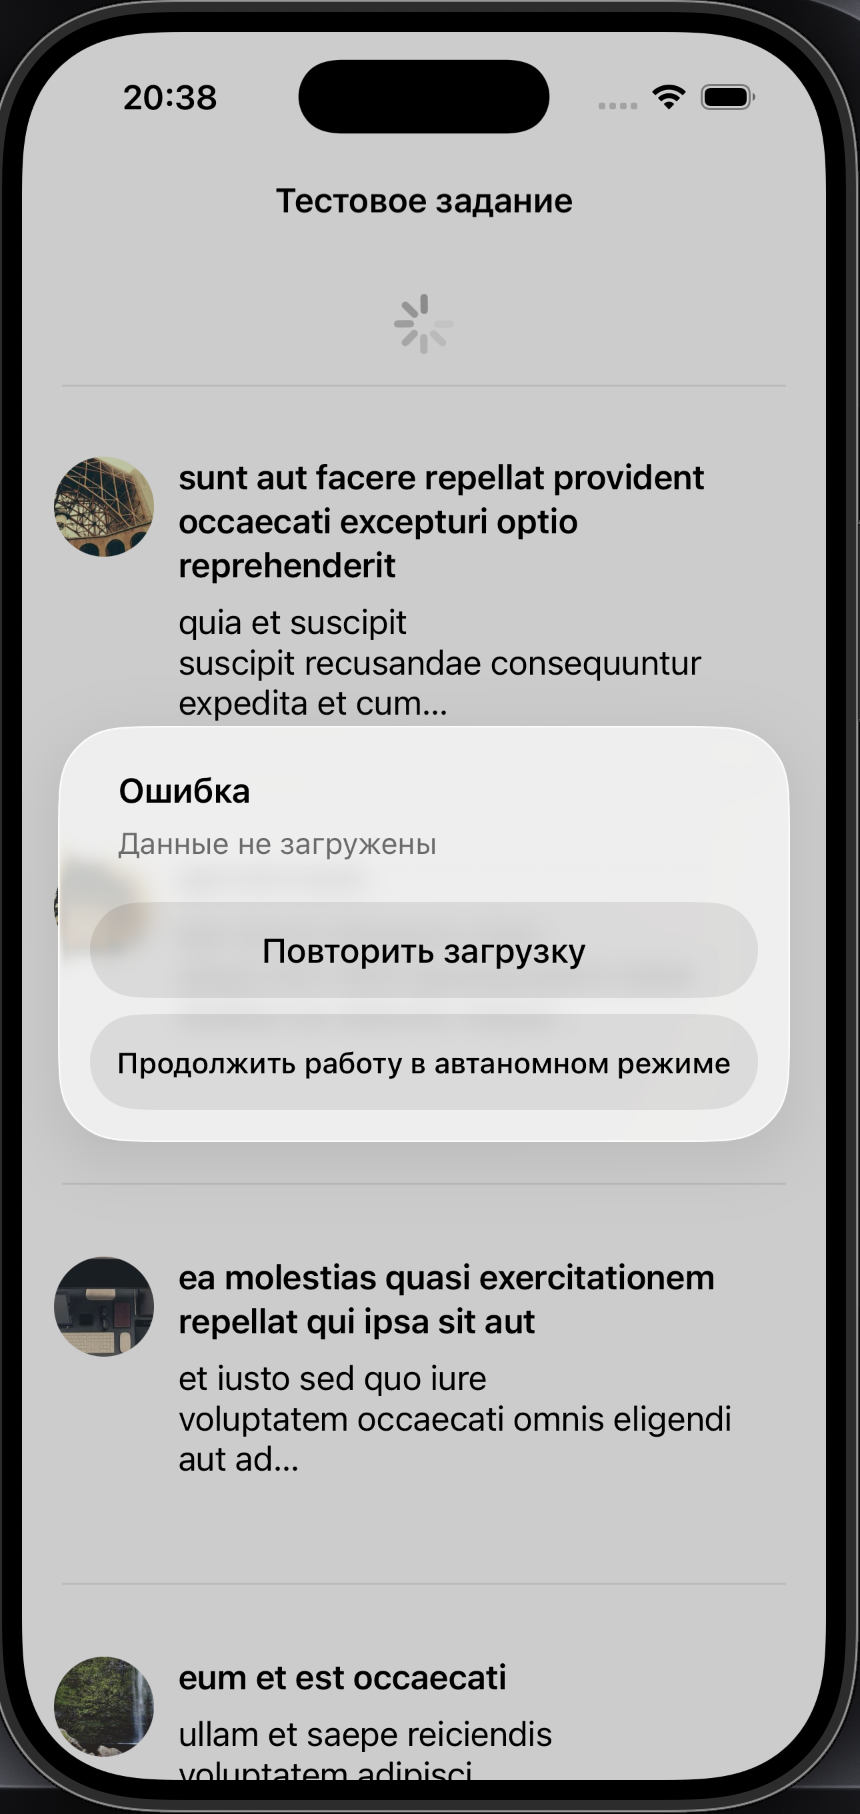
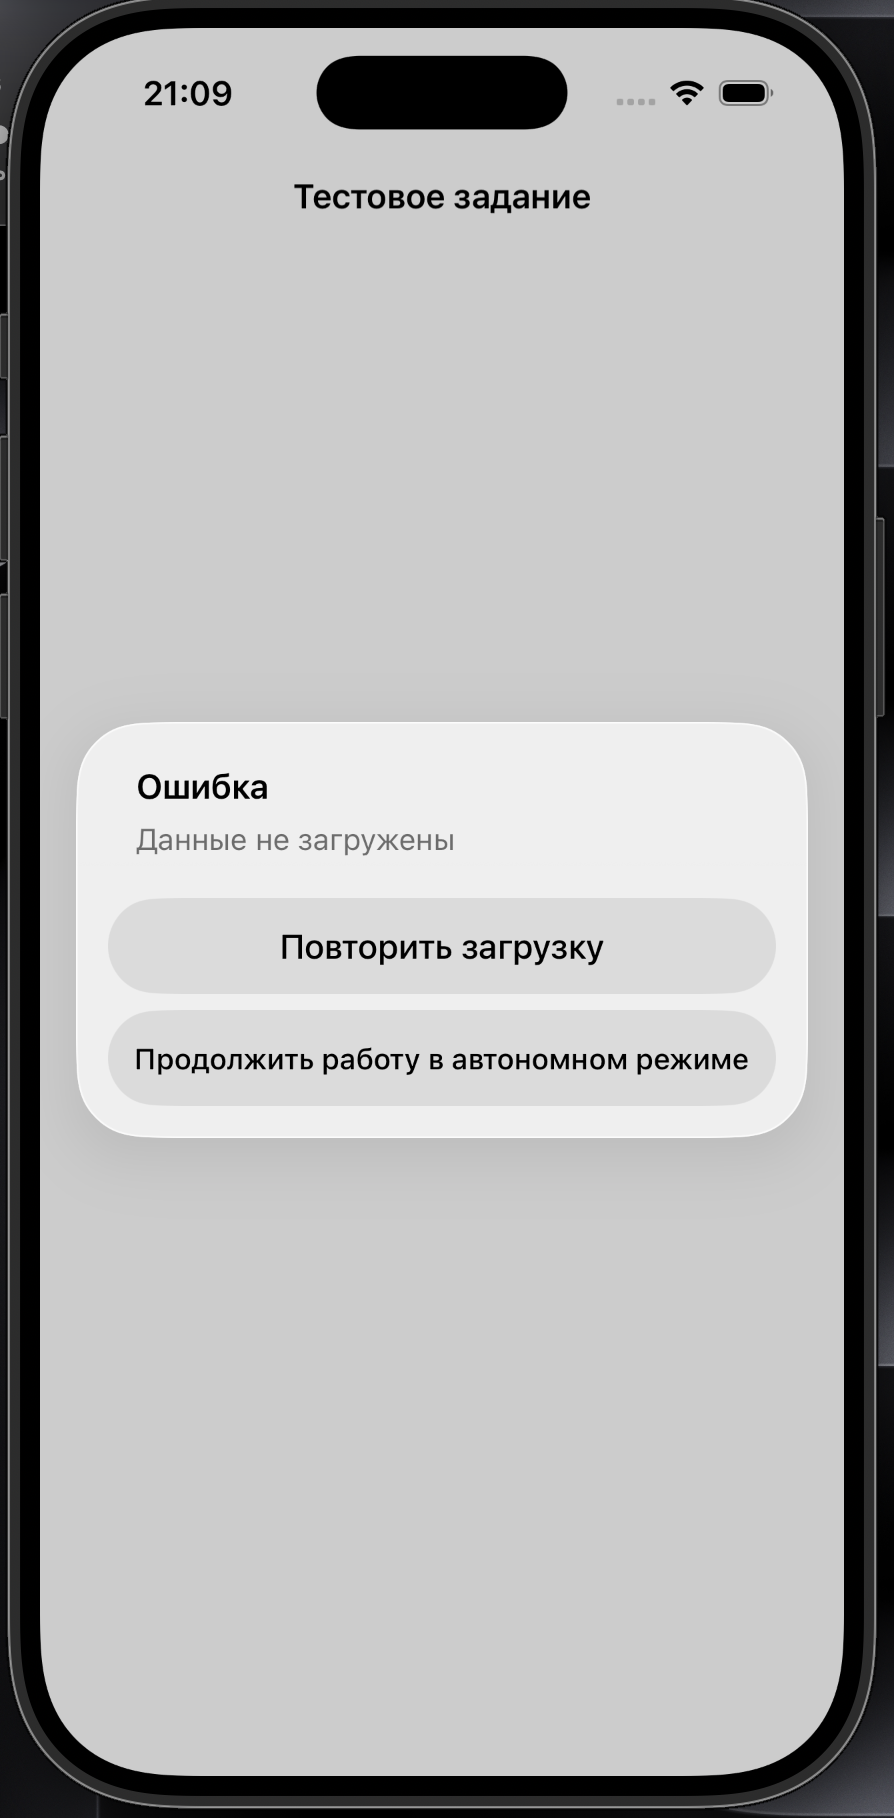
docs: update README

Changed region(s): [[0.0, 0.0, 1.0, 1.0], [0.2116, 0.6792, 0.8465, 0.8335], [0.4535, 0.1544, 0.514, 0.1852]]

diff --git a/TestiOSApp/Views/MainViewController.swift b/TestiOSApp/Views/MainViewController.swift
@@ -102,7 +102,7 @@ final class MainViewController: UIViewController {
             self?.viewModel.loadItems()
         }))
         
-        alert.addAction(UIAlertAction(title: "Продолжить работу в автаномном режиме", style: .cancel, handler: { [weak self] _ in
+        alert.addAction(UIAlertAction(title: "Продолжить работу в автономном режиме", style: .cancel, handler: { [weak self] _ in
             self?.viewModel.loadItemsFromCoreData()
         }))
         self.present(alert, animated: true, completion: nil)
